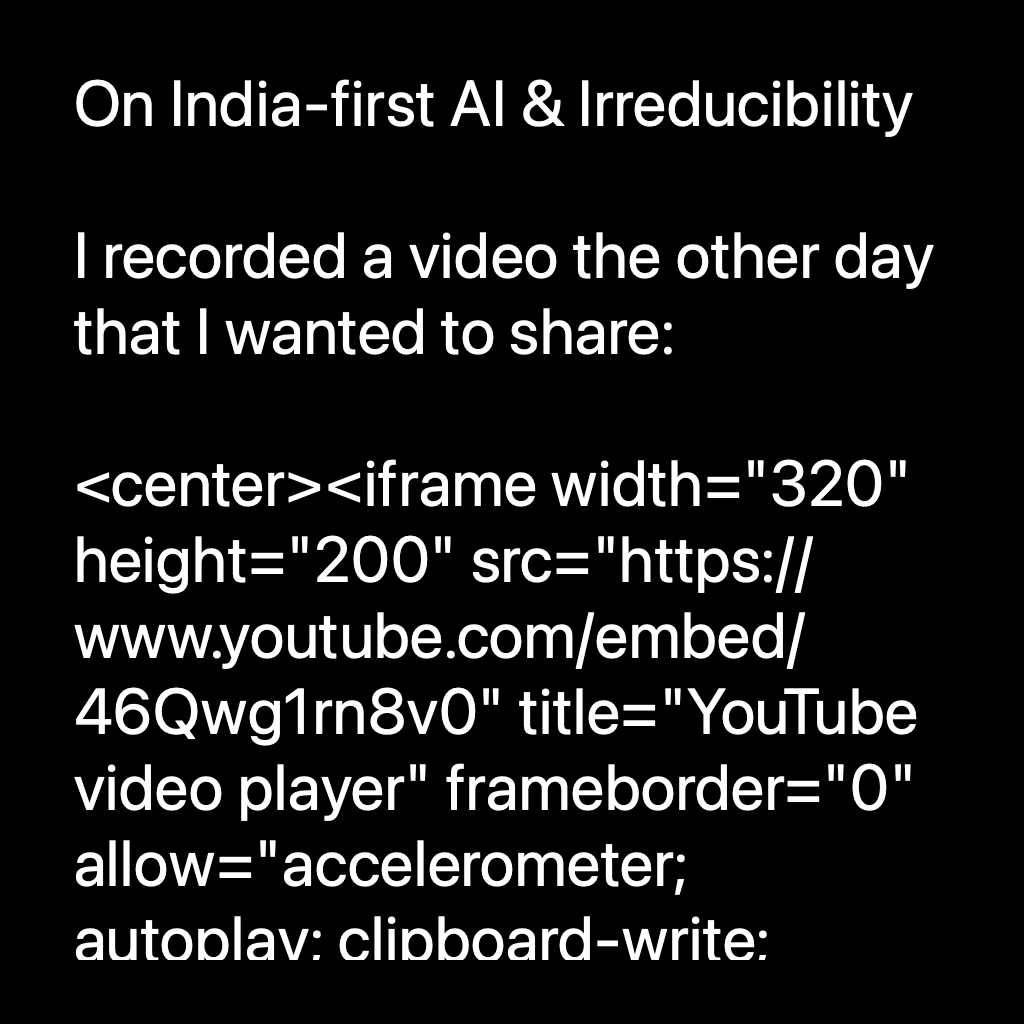
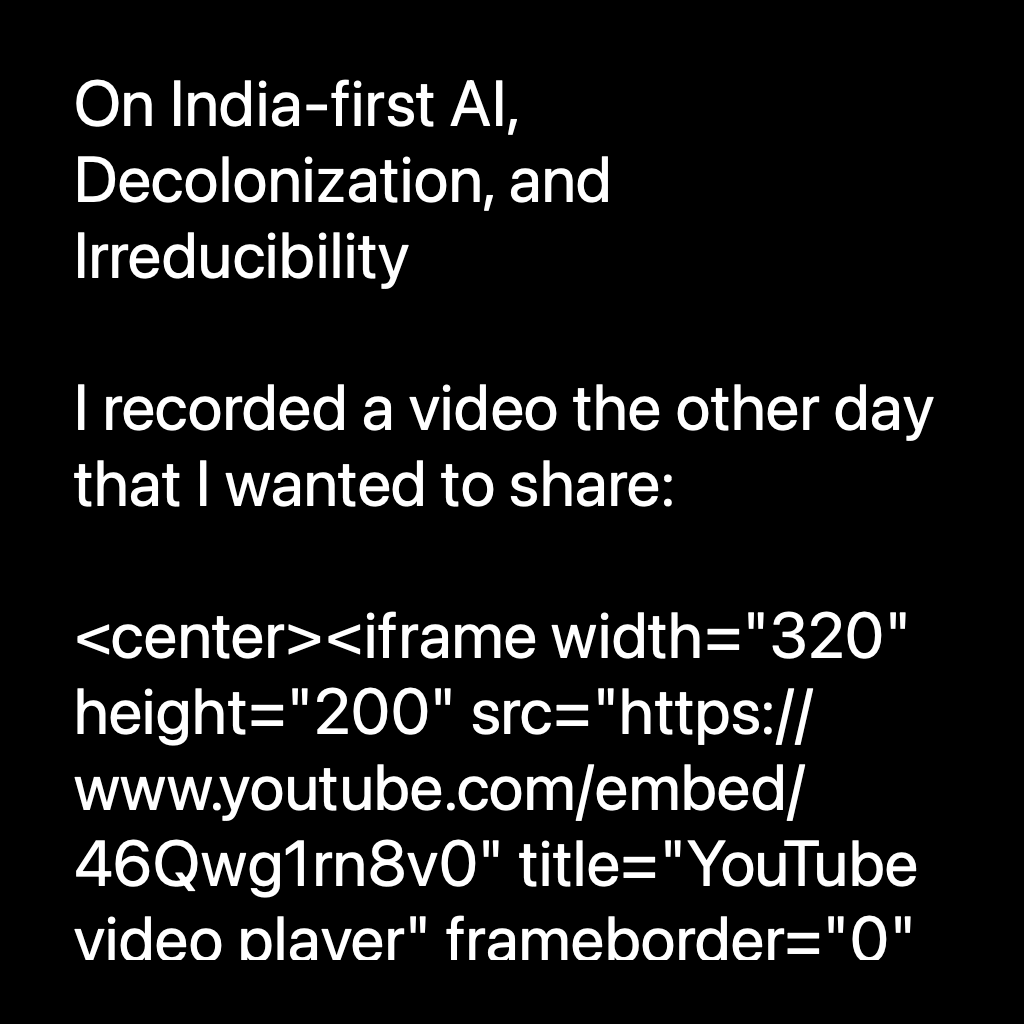
automated upload

Changed region(s): [[0.0625, 0.375, 0.9062, 0.9375], [0.0625, 0.1562, 0.9062, 0.3438], [0.5, 0.0625, 0.9062, 0.125]]

diff --git a/AF9D2B0D-5DA7-4287-8029-A2B663B0D43B/index.html b/AF9D2B0D-5DA7-4287-8029-A2B663B0D43B/index.html
@@ -9,7 +9,7 @@
     <link rel="stylesheet" href="../assets/style.css?sha256=3cc0464065d3f073168511e1307571113ffac06c8fdd5e858d3e0d8d0ef760bd">
     <link rel="preload" href="../planet.json" as="fetch" type="application/json" crossorigin="anonymous">
     <link rel="preload" href="../rss.xml" as="fetch" type="application/rss+xml" crossorigin="anonymous">
-    <title>On India-first AI &#x26; Irreducibility</title>
+    <title>On India-first AI, Decolonization, and Irreducibility</title>
     <script type="text/javascript" src="../assets/utils.js"></script>
     <script>
       let userAgentRegex = /Planet\/\S*/;
@@ -70,17 +70,17 @@
     
 <!-- Open Graph Tags -->
 <meta property="og:type" content="article" />
-<meta property="og:title" content="On India-first AI &#x26; Irreducibility" />
+<meta property="og:title" content="On India-first AI, Decolonization, and Irreducibility" />
 <meta property="og:site_name" content="&#xA2A;&#xA4D;&#xA30;&#xA2D;&#xA1A;&#xA3F;&#xA70;&#xA24;&#xA28;&#xA30;&#xA70;&#xA27;&#xA3E;&#xA35;&#xA3E;" />
 <meta property="og:description" content="I recorded a video the other day that I wanted to share:" />
 <meta property="article:published_time" content="2023-06-11T22:56:28-05:00" />
 
   <meta property="og:image" content="https://retroflex.xyz/ai/_cover.png" />
-  <meta property="og:image:alt" content="On India-first AI &#x26; Irreducibility" />
+  <meta property="og:image:alt" content="On India-first AI, Decolonization, and Irreducibility" />
 
 <meta name="twitter:card" content="summary" />
 <meta name="twitter:site" content="&#xA2A;&#xA4D;&#xA30;&#xA2D;&#xA1A;&#xA3F;&#xA70;&#xA24;&#xA28;&#xA30;&#xA70;&#xA27;&#xA3E;&#xA35;&#xA3E;" />
-<meta name="twitter:title" content="On India-first AI &#x26; Irreducibility" />
+<meta name="twitter:title" content="On India-first AI, Decolonization, and Irreducibility" />
 <meta name="twitter:description" content="I recorded a video the other day that I wanted to share:" />
 
   <meta name="twitter:image" content="https://retroflex.xyz/ai/_cover.png" />
@@ -158,7 +158,7 @@
       <div class="main">
       
 
-<h1>On India-first AI &#x26; Irreducibility</h1>
+<h1>On India-first AI, Decolonization, and Irreducibility</h1>
 <div class="date">Jun 11, 2023 at 10:56:28 PM</div>
 <div class="content">
   

diff --git a/ai/index.html b/ai/index.html
@@ -9,7 +9,7 @@
     <link rel="stylesheet" href="../assets/style.css?sha256=3cc0464065d3f073168511e1307571113ffac06c8fdd5e858d3e0d8d0ef760bd">
     <link rel="preload" href="../planet.json" as="fetch" type="application/json" crossorigin="anonymous">
     <link rel="preload" href="../rss.xml" as="fetch" type="application/rss+xml" crossorigin="anonymous">
-    <title>On India-first AI &#x26; Irreducibility</title>
+    <title>On India-first AI, Decolonization, and Irreducibility</title>
     <script type="text/javascript" src="../assets/utils.js"></script>
     <script>
       let userAgentRegex = /Planet\/\S*/;
@@ -70,17 +70,17 @@
     
 <!-- Open Graph Tags -->
 <meta property="og:type" content="article" />
-<meta property="og:title" content="On India-first AI &#x26; Irreducibility" />
+<meta property="og:title" content="On India-first AI, Decolonization, and Irreducibility" />
 <meta property="og:site_name" content="&#xA2A;&#xA4D;&#xA30;&#xA2D;&#xA1A;&#xA3F;&#xA70;&#xA24;&#xA28;&#xA30;&#xA70;&#xA27;&#xA3E;&#xA35;&#xA3E;" />
 <meta property="og:description" content="I recorded a video the other day that I wanted to share:" />
 <meta property="article:published_time" content="2023-06-11T22:56:28-05:00" />
 
   <meta property="og:image" content="https://retroflex.xyz/ai/_cover.png" />
-  <meta property="og:image:alt" content="On India-first AI &#x26; Irreducibility" />
+  <meta property="og:image:alt" content="On India-first AI, Decolonization, and Irreducibility" />
 
 <meta name="twitter:card" content="summary" />
 <meta name="twitter:site" content="&#xA2A;&#xA4D;&#xA30;&#xA2D;&#xA1A;&#xA3F;&#xA70;&#xA24;&#xA28;&#xA30;&#xA70;&#xA27;&#xA3E;&#xA35;&#xA3E;" />
-<meta name="twitter:title" content="On India-first AI &#x26; Irreducibility" />
+<meta name="twitter:title" content="On India-first AI, Decolonization, and Irreducibility" />
 <meta name="twitter:description" content="I recorded a video the other day that I wanted to share:" />
 
   <meta name="twitter:image" content="https://retroflex.xyz/ai/_cover.png" />
@@ -158,7 +158,7 @@
       <div class="main">
       
 
-<h1>On India-first AI &#x26; Irreducibility</h1>
+<h1>On India-first AI, Decolonization, and Irreducibility</h1>
 <div class="date">Jun 11, 2023 at 10:56:28 PM</div>
 <div class="content">
   

diff --git a/index.html b/index.html
@@ -173,7 +173,7 @@
     <!--<div class="item-hero-image"><a href="AF9D2B0D-5DA7-4287-8029-A2B663B0D43B/"><img src="AF9D2B0D-5DA7-4287-8029-A2B663B0D43B/https://retroflex.xyz/ai/_cover.png"></a></div>-->
     
     <div class="item-main">
-      <div class="item-title"><a href="./ai/">On India-first AI &#x26; Irreducibility</a></div>
+      <div class="item-title"><a href="./ai/">On India-first AI, Decolonization, and Irreducibility</a></div>
       <div class="item-info">
         <div class="item-date">Jun 11, 2023</div>
         

diff --git a/page1.html b/page1.html
@@ -173,7 +173,7 @@
     <!--<div class="item-hero-image"><a href="AF9D2B0D-5DA7-4287-8029-A2B663B0D43B/"><img src="AF9D2B0D-5DA7-4287-8029-A2B663B0D43B/https://retroflex.xyz/ai/_cover.png"></a></div>-->
     
     <div class="item-main">
-      <div class="item-title"><a href="./ai/">On India-first AI &#x26; Irreducibility</a></div>
+      <div class="item-title"><a href="./ai/">On India-first AI, Decolonization, and Irreducibility</a></div>
       <div class="item-info">
         <div class="item-date">Jun 11, 2023</div>
         
